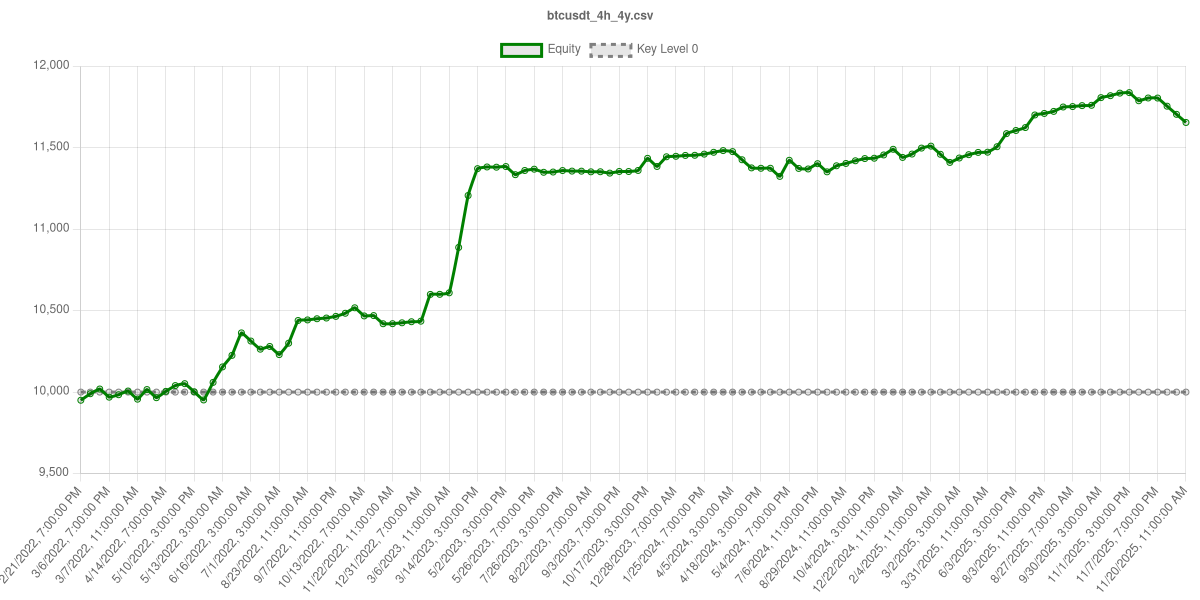
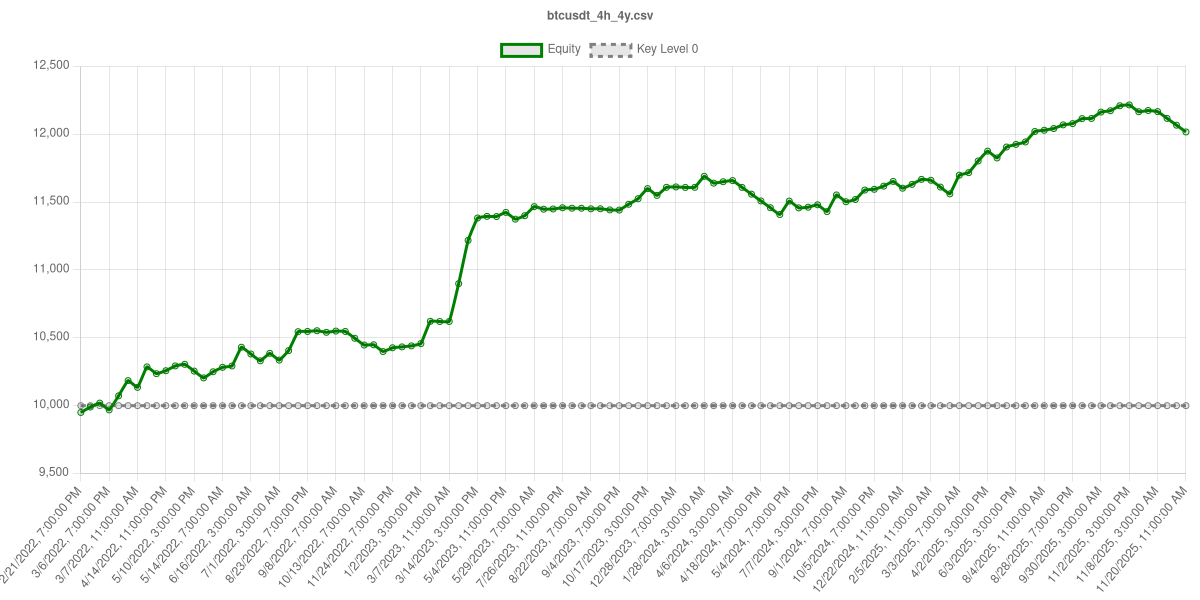
update

diff --git a/backend/service-backtest/src/index.ts b/backend/service-backtest/src/index.ts
@@ -158,7 +158,7 @@ export class Backtester {
     const EMA25 = calculateEMA(candles, 25);
     const { toques, intentosDeRuptura } = countEMATouches(candles, EMA25);
 
-    const rule4 = toques >= 2 || intentosDeRuptura >= 2;
+    const rule4 = toques >= 3 || intentosDeRuptura >= 4;
 
     for (const order of this.orders) {
       if (order.state !== "executed") continue;
